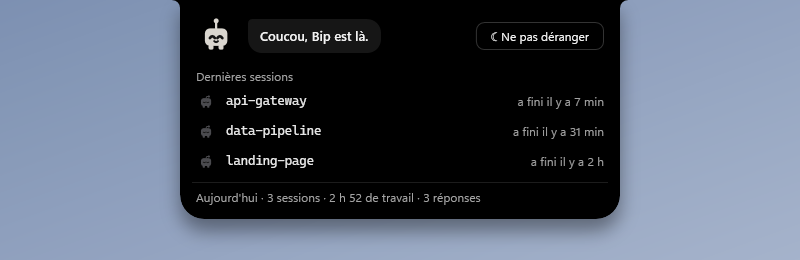
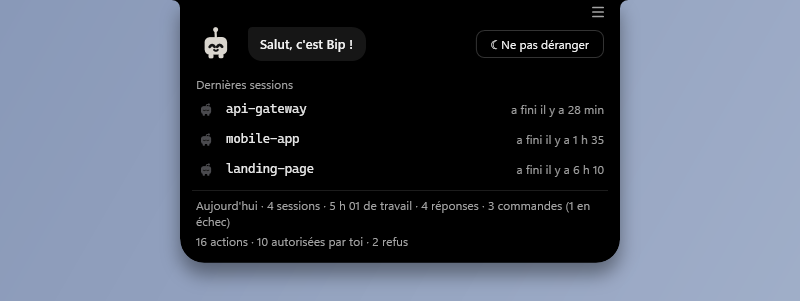
README : nouvelles captures (commandes, réglages, règle suggérée, rapport d'audit)
- Captures refaites avec une encoche de démonstration (données fictives) :
  repliée, entrouverte, permission, question, encoche vide
- Nouvelles captures : commandes bip run, réglages ☰, règle suggérée,
  rapport du journal d'audit (FR et EN)
- Retrait de repliee-attente.png, inutilisée

diff --git a/README.md b/README.md
@@ -16,7 +16,7 @@ qui a fini et qui t'attend, et tu réponds sans changer de fenêtre.
 
 **🇫🇷 Français** · [🇬🇧 English](#english)
 
-<img src="docs/screenshots/permission.png" width="640" alt="Encoche dépliée : une demande de permission et deux sessions">
+<img src="docs/screenshots/permission.png" width="640" alt="Encoche dépliée : une demande de permission, une commande et deux sessions">
 
 </div>
 
@@ -36,13 +36,18 @@ répondre directement.
 
 | Repliée | Une demande arrive |
 |:---:|:---:|
-| <img src="docs/screenshots/repliee.png" width="400" alt="Encoche repliée, trois sessions"> | <img src="docs/screenshots/entrouverte.png" width="400" alt="Encoche entrouverte : data-pipeline attend ta réponse"> |
-| Un Bip par session, dans l'ordre de lancement (5 au plus, puis « +N »). | L'encoche s'entrouvre 4 s pour dire qui attend, puis se replie ; un éclat rouge balaie son bord tant que la demande est ouverte. |
+| <img src="docs/screenshots/repliee.png" width="400" alt="Encoche repliée, quatre Bip"> | <img src="docs/screenshots/entrouverte.png" width="400" alt="Encoche entrouverte : data-pipeline attend ta réponse"> |
+| Un Bip par session ou commande suivie, dans l'ordre de lancement (5 au plus, puis « +N »). | L'encoche s'entrouvre 4 s pour dire qui attend, puis se replie ; un éclat rouge balaie son bord tant que la demande est ouverte. |
 
 | Répondre à une question | Encoche vide |
 |:---:|:---:|
 | <img src="docs/screenshots/question.png" width="400" alt="Carte de question à choix"> | <img src="docs/screenshots/encoche-vide.png" width="400" alt="Bip salue, dernières sessions et bilan du jour"> |
 | Choix unique, choix multiple ou réponse libre (« Autre… »). | Plus rien ne tourne : Bip se réveille, salue, montre les dernières sessions et le bilan du jour. |
+
+| Commandes suivies (`bip run`) | Réglages (☰) |
+|:---:|:---:|
+| <img src="docs/screenshots/commandes.png" width="400" alt="Commandes en cours, finie et en échec, avec leur croix"> | <img src="docs/screenshots/reglages.png" width="400" alt="Réglages intégrés sous l'encoche vide"> |
+| En cours, finie ou en échec avec son code ; une croix les retire. | Le bouton ☰ ajoute les réglages sous le contenu de l'encoche. |
 
 ## Bip
 
@@ -106,6 +111,8 @@ auto) et le résultat.
   filtres par période, projet, décision et texte, et export CSV.
 - Conservé 90 jours, sur le poste uniquement.
 
+<img src="docs/screenshots/rapport-audit.png" width="760" alt="Rapport d'audit : chaîne intacte, filtres, actions autorisées, refusées et règles">
+
 ### Règles suggérées
 
 Après **5 autorisations de la même commande dans un projet** (`npm test`, `pytest`…), Bip
@@ -114,6 +121,8 @@ dans `.claude/settings.local.json`, non versionné), **Partout**, ou **Non, ne p
 Jamais de suggestion pour une commande composée, risquée (suppression, `git push`, réseau,
 interpréteur…) ou trop large. Les règles créées se retirent d'un clic depuis les réglages (☰), et chaque
 ajout ou retrait est inscrit au journal d'audit.
+
+<p align="center"><img src="docs/screenshots/regle.png" width="560" alt="Carte de permission avec une règle suggérée : Ce projet, Partout, Non, ne plus proposer"></p>
 
 ## Installation
 
@@ -261,13 +270,18 @@ right there.
 
 | Collapsed | A request comes in |
 |:---:|:---:|
-| <img src="docs/screenshots/repliee.png" width="400" alt="Collapsed notch, three sessions"> | <img src="docs/screenshots/entrouverte.png" width="400" alt="Peeking notch: data-pipeline is waiting for you"> |
-| One Bip per session, in launch order (5 at most, then "+N"). | The notch peeks open for 4 s to say who is waiting, then folds back; a red glow sweeps its edge while the request is open. |
+| <img src="docs/screenshots/repliee.png" width="400" alt="Collapsed notch, four Bips"> | <img src="docs/screenshots/entrouverte.png" width="400" alt="Peeking notch: data-pipeline is waiting for you"> |
+| One Bip per session or tracked command, in launch order (5 at most, then "+N"). | The notch peeks open for 4 s to say who is waiting, then folds back; a red glow sweeps its edge while the request is open. |
 
 | Answering a question | Empty notch |
 |:---:|:---:|
 | <img src="docs/screenshots/question.png" width="400" alt="Multiple-choice question card"> | <img src="docs/screenshots/encoche-vide.png" width="400" alt="Bip says hello, recent sessions and today's summary"> |
 | Single choice, multiple choice or free text ("Autre…"). | Nothing running: Bip wakes up, says hello, and shows recent sessions and today's summary. |
+
+| Tracked commands (`bip run`) | Settings (☰) |
+|:---:|:---:|
+| <img src="docs/screenshots/commandes.png" width="400" alt="Running, finished and failed commands, each with its cross"> | <img src="docs/screenshots/reglages.png" width="400" alt="Settings below the empty notch"> |
+| Running, done, or failed with its exit code; a cross removes them. | The ☰ button adds the settings below the notch content. |
 
 ### Meet Bip
 
@@ -328,6 +342,8 @@ who allowed it (you in Bip, you in Claude, a rule, auto mode) and the outcome.
   period, project, decision and text, plus CSV export.
 - Kept 90 days, on the machine only.
 
+<img src="docs/screenshots/rapport-audit.png" width="760" alt="Audit report: intact chain, filters, allowed and denied actions, rules">
+
 #### Suggested rules
 
 After **5 approvals of the same command in a project** (`npm test`, `pytest`…), Bip offers to
@@ -336,6 +352,8 @@ unversioned `.claude/settings.local.json`), **everywhere**, or **never suggest a
 compound, risky (deletion, `git push`, network, interpreters…) or overly broad commands. Rules
 created by Bip can be removed in one click from the settings (☰), and every change is written to the
 audit log.
+
+<p align="center"><img src="docs/screenshots/regle.png" width="560" alt="Permission card with a suggested rule: this project, everywhere, never suggest again"></p>
 
 ### Installation
 
